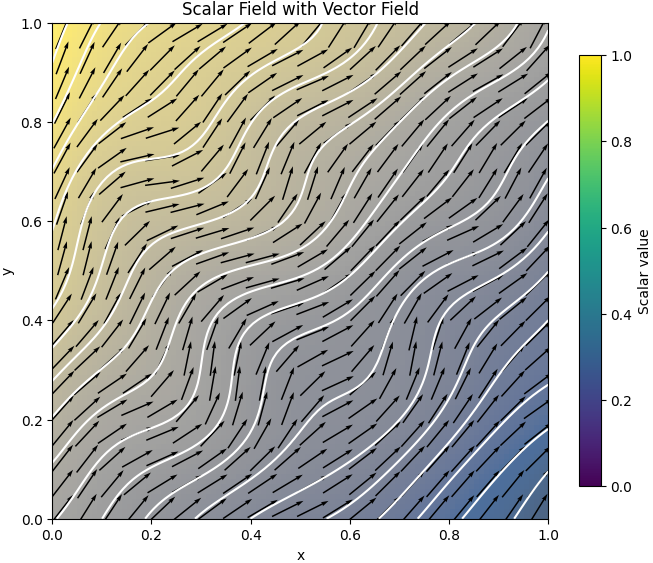
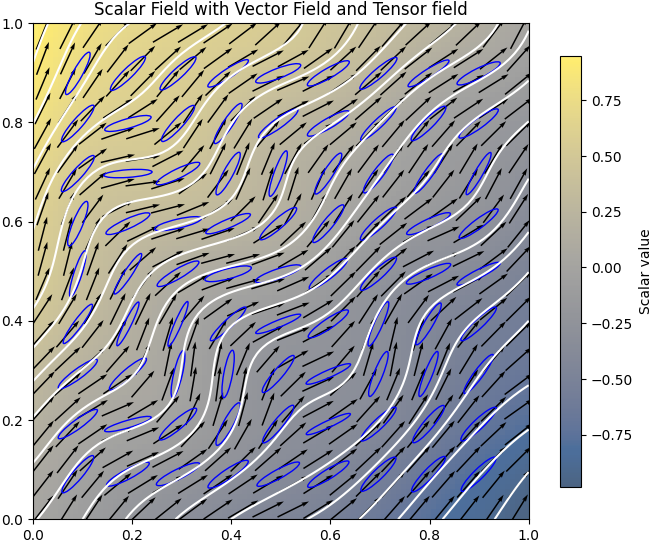
JMB: updated transformation of tensors

diff --git a/src/util_transformation.py b/src/util_transformation.py
@@ -92,16 +92,22 @@ def transform_vector_2d(u,v,transf_u,transf_v,grid_type='T'):
     # Compute v at U points
     v_u[1:,1:] = ( v[0:-1, 0:-1] + v[1:, 0:-1] + v[0:-1, 1:] + v[1:, 1:] ) / 4
     v_u[0,:] = v[0,:] ; v_u[:,0] = v[:,0]
+    # Apply transformation to input vector
+    ru = u   * transf_u[0,0,:,:] + v_u * transf_u[0,1,:,:]
+    rv = u_v * transf_v[1,0,:,:] + v   * transf_v[1,1,:,:]
+    # Renormalize vector if required by user
+    if method == 'renormalization' :
+      rv_u = u   * transf_v[1,0,:,:] + v_u * transf_v[1,1,:,:]
+      ru_v = u_v * transf_u[0,0,:,:] + v   * transf_u[0,1,:,:]
+      renormalize_vector(ru  ,rv_u,u  ,v_u)
+      renormalize_vector(ru_v,rv  ,u_v,v  )
   else:
-    u_v = u
-    v_u = v
-
-  # Apply transformation to input vector
-  ru = u   * transf_u[0,0,:,:] +  v_u * transf_u[0,1,:,:]
-  rv = u_v * transf_v[1,0,:,:] +  v   * transf_v[1,1,:,:]
-
-  # Renormalize vector if required by user
-  # if method == 'renormalization' :
+    # Apply transformation to input vector
+    ru = u * transf_u[0,0,:,:] + v * transf_u[0,1,:,:]
+    rv = u * transf_v[1,0,:,:] + v * transf_v[1,1,:,:]
+    # Renormalize vector if required by user
+    if method == 'renormalization' :
+      renormalize_vector(ru,rv,u,v)
 
   return ru, rv
 
@@ -127,7 +133,10 @@ def transform_tensor(txx,txy,tyy,dx,dy,grid_type='T'):
 
   # Transform tensor for every 2d slice
   if ndim == 2 :
-    rtxx, rtxy, rtyy = transform_tensor_2d(txx,txy,tyy,transf)
+    txx2d = txx[:,:]
+    txy2d = txy[:,:]
+    tyy2d = tyy[:,:]
+    rtxx2d, rtxy2d, rtyy2d = transform_tensor_2d(txx2d,txy2d,tyy2d,transf)
     txx[:,:] = rtxx2d
     txy[:,:] = rtxy2d
     tyy[:,:] = rtyy2d
@@ -167,16 +176,47 @@ def transform_tensor_2d(txx,txy,tyy,transf):
   rtxx,rtxy,rtyy : transformed components of the tensor
   """
 
-  # Apply transformation to input tensor
-  rtxx = txx * transf[0,0,:,:]**2 + 2 * txy * transf[0,0,:,:] * transf[0,1,:,:] \
-         + tyy * transf[0,1,:,:]**2
-  rtxy = txx * transf[1,0,:,:] * transf[0,0,:,:] + tyy * transf[0,1,:,:] * transf[1,1,:,:] \
-         + tyy * ( transf[0,1,:,:] * transf[1,0,:,:] + transf[0,0,:,:] * transf[1,1,:,:] )
-  rtyy = txx * transf[1,0,:,:]**2 + 2 * txy * transf[1,0,:,:] * transf[1,1,:,:] \
-         + tyy * transf[1,1,:,:]**2
+  if method == 'renormalization' :
+    # Initialize output tensors
+    rtxx = np.zeros_like(txx)
+    rtxy = np.zeros_like(txx)
+    rtyy = np.zeros_like(txx)
 
-  # Renormalize tensor if required by user
-  # if method == 'renormalization' :
+    # Loop on grid points (this loop is inefficient!)
+    for i in range(txx.shape[0]):
+      for j in range(txx.shape[1]):
+        # Extract 2D tensor
+        tensor = np.array([[txx[i,j], txy[i,j]],
+                          [txy[i,j], tyy[i,j]]])
+        # Compute eigenvalues and eigenvectors
+        eival, eivec = np.linalg.eigh(tensor)
+        # Transform and renormalize first eigenvector
+        ru = eivec[0,0] * transf[0,0,i,j] + eivec[1,0] * transf[0,1,i,j]
+        rv = eivec[0,0] * transf[1,0,i,j] + eivec[1,0] * transf[1,1,i,j]
+        norm = np.sqrt(ru**2+rv**2)
+        eivec[0,0] = ru/norm
+        eivec[1,0] = rv/norm
+        # Transform and renormalize second eigenvector
+        ru = eivec[0,1] * transf[0,0,i,j] + eivec[1,1] * transf[0,1,i,j]
+        rv = eivec[0,1] * transf[1,0,i,j] + eivec[1,1] * transf[1,1,i,j]
+        norm = np.sqrt(ru**2+rv**2)
+        eivec[0,1] = ru/norm
+        eivec[1,1] = rv/norm
+        # Construct the diagonal matrix of eigenvalues
+        Lambda = np.diag(eival)
+        # Reconstruct the tensor with transformed eigenvectors
+        tensor = eivec @ Lambda @ eivec.T
+        rtxx[i,j] = tensor[0,0]
+        rtxy[i,j] = tensor[0,1]
+        rtyy[i,j] = tensor[1,1]
+  else:
+    # Directly apply transformation to input tensor
+    rtxx = txx * transf[0,0,:,:]**2 + 2 * txy * transf[0,0,:,:] * transf[0,1,:,:] \
+           + tyy * transf[0,1,:,:]**2
+    rtxy = txx * transf[1,0,:,:] * transf[0,0,:,:] + tyy * transf[0,1,:,:] * transf[1,1,:,:] \
+           + txy * ( transf[0,1,:,:] * transf[1,0,:,:] + transf[0,0,:,:] * transf[1,1,:,:] )
+    rtyy = txx * transf[1,0,:,:]**2 + 2 * txy * transf[1,0,:,:] * transf[1,1,:,:] \
+           + tyy * transf[1,1,:,:]**2
 
   return rtxx, rtxy, rtyy
 
@@ -246,4 +286,24 @@ def compute_transformation(dx,dy,grid_type='T'):
       transf[i,j,:,-1]   = transf[i,j,:,-2]
 
   return transf
+
+def renormalize_vector(ru,rv,u,v):
+  """
+  Renormalize vectors to original norm
+
+  Args:
+  ru,rv : components of the transformed vector
+  u,v   : components of the original vector
+  dx : perturbation along x coordinate
+  dy : perturbation along y coordinate
+
+  Returns:
+  ru,rv are modified in place
+  """
+
+  factor = np.sqrt ( ( u**2 + v**2 ) / ( ru**2 + rv**2 ) )
+  ru[:,:] = ru[:,:] * factor
+  rv[:,:] = rv[:,:] * factor
+
+  return
 

diff --git a/examples/plot_test_case.py b/examples/plot_test_case.py
@@ -2,6 +2,8 @@ import numpy as np
 import argparse
 from netCDF4 import Dataset
 import matplotlib.pyplot as plt
+from matplotlib.patches import Ellipse
+
 
 # Parse command-line arguments
 parser = argparse.ArgumentParser(prog='plot_test_case',description='Plot output from test case')
@@ -16,6 +18,9 @@ nc_y = nc_file.variables['nav_lat']
 nc_f = nc_file.variables['f']
 nc_u = nc_file.variables['u']
 nc_v = nc_file.variables['v']
+nc_txx = nc_file.variables['txx']
+nc_txy = nc_file.variables['txy']
+nc_tyy = nc_file.variables['tyy']
 
 # Load variables from file
 x = nc_x[:]
@@ -23,28 +28,53 @@ y = nc_y[:]
 f = nc_f[:]
 u = nc_u[:]
 v = nc_v[:]
+txx = nc_txx[:]
+txy = nc_txy[:]
+tyy = nc_tyy[:]
 
 # Close NetCDF file
 nc_file.close()
 
-# Plotting
-plt.figure(figsize=(8, 8))
+# Get dimensions
+idim = x.shape[0]
+jdim = x.shape[1]
 
-# Display the scalar field with imshow
+# Plotting
+fig, ax = plt.subplots(figsize=(8, 8))
+
+# Display the scalar field with colors
 plt.imshow(f, extent=[0, 1, 0, 1], origin='lower', cmap='cividis', alpha=0.7)
-#plt.imshow(f, extent=[0, 1, 0, 1], origin='lower', alpha=0.7)
+plt.colorbar(label='Scalar value',cmap='cividis',shrink=0.7) # Add color bar to show scalar values
+
+# Display the scalar field with white contours
 plt.contour(x, y, f, colors='white', levels=20, linewidths=1.5, linestyles='solid')
 
-# Overlay the vector field with quiver
+# Display the vector field with black arrows
 plt.quiver(x[2::5,2::5], y[2::5,2::5], u[2::5,2::5], v[2::5,2::5], color='black',pivot='middle',scale=20)
 
+# Display each tensor as an ellipse
+for i in range(9,idim-1,10):
+  for j in range(9,jdim-1,10):
+    tensor = np.array([[txx[i,j], txy[i,j]],
+                       [txy[i,j], tyy[i,j]]])
+
+    # Compute eigenvalues and eigenvectors
+    eigenvalues, eigenvectors = np.linalg.eigh(tensor)
+
+    # The angle of the ellipse (orientation)
+    angle = np.degrees(np.arctan2(*eigenvectors[:, 0][::-1]))
+
+    # Width and height of the ellipse are proportional to the square root of the eigenvalues
+    plot_scale = 30
+    width, height = 2 * np.sqrt(eigenvalues) / plot_scale
+
+    # Position
+    ellipse = Ellipse(xy=(x[i, j], y[i, j]), width=width, height=height,
+                      angle=angle, edgecolor='blue', facecolor='none')
+    ax.add_patch(ellipse)
+
 # Add labels and title
-plt.xlabel('x')
-plt.ylabel('y')
-plt.title('Scalar Field with Vector Field')
+plt.title('Scalar Field with Vector Field and Tensor field')
 
-# Show the plot
-plt.colorbar(label='Scalar value',shrink=0.7) # Add color bar to show scalar values
-#plt.show()
-
+# Save figure in file
 plt.savefig(input_file+'.png', dpi=100, bbox_inches='tight',pad_inches=0.01)

diff --git a/examples/prepare_test_case.py b/examples/prepare_test_case.py
@@ -7,13 +7,20 @@ x = np.linspace(0, 1, grid_size)
 y = np.linspace(0, 1, grid_size)
 x_grid, y_grid = np.meshgrid(x, y)
 
-# Define the scalar function f(x, y) = y - x
+# Define a scalar function f(x, y) = y - x
 f = y_grid - x_grid
-#f = np.floor( 10 *  ( y_grid - x_grid ) ) / 10
-#f = y_grid
 
-# Define the constant vector field u = (1, 1)
+# Define a constant vector field u(x, y) = (1, 1)
 u = np.ones((grid_size, grid_size, 2))  # Last dimension is 2 for the vector components
+
+# Define a constant tensor field t(x, y) = ( [a, c] , [c, b] )
+# (symmetric, positive definite)
+a = 1.2 ; b = 1 ; c = 1
+t = np.zeros((grid_size, grid_size, 2, 2))
+for i in range(grid_size):
+    for j in range(grid_size):
+        t[i,j,:,:] = np.array([[a, c],
+                               [c, b]])
 
 # Create a new NetCDF file
 nc_filename = 'test.nc'
@@ -34,26 +41,34 @@ with Dataset(nc_filename, 'w', format='NETCDF4') as ncfile:
     u_var = ncfile.createVariable('u', 'f4', ('x', 'y'))
     v_var = ncfile.createVariable('v', 'f4', ('x', 'y'))
 
+    # Create the vector field variable u(x, y)
+    txx_var = ncfile.createVariable('txx', 'f4', ('x', 'y'))
+    txy_var = ncfile.createVariable('txy', 'f4', ('x', 'y'))
+    tyy_var = ncfile.createVariable('tyy', 'f4', ('x', 'y'))
+
     # Assign data to the coordinate variables
     x_var[:,:] = x_grid
     y_var[:,:] = y_grid
 
     # Assign data to the scalar function variable
-    f_var[:, :] = f
+    f_var[:,:] = f
 
     # Assign data to the vector field variable
-    u_var[:, :] = u[:, :, 0]
-    v_var[:, :] = u[:, :, 1]
+    u_var[:,:] = u[:, :, 0]
+    v_var[:,:] = u[:, :, 1]
 
-    # Optional: Add units or descriptions
-    x_var.units = 'nondimensional'
-    y_var.units = 'nondimensional'
-    f_var.units = 'nondimensional'
-    u_var.units = 'nondimensional'
-    v_var.units = 'nondimensional'
-    f_var.description = 'Scalar function f(x, y) = y - x'
-    u_var.description = 'Constant vector field u(x, y) = 1'
-    v_var.description = 'Constant vector field v(x, y) = 1'
+    # Assign data to the vector field variable
+    txx_var[:,:] = t[:, :, 0, 0]
+    txy_var[:,:] = t[:, :, 0, 1]
+    tyy_var[:,:] = t[:, :, 1, 1]
+
+    # Add  descriptions
+    f_var.description = 'Scalar function f(x, y)'
+    u_var.description = 'Constant vector field u(x, y)'
+    v_var.description = 'Constant vector field v(x, y)'
+    txx_var.description = 'Constant tensor field txx(x, y)'
+    txy_var.description = 'Constant tensor field txy(x, y)'
+    tyy_var.description = 'Constant tensor field txy(y, y)'
 
 print(f"NetCDF file '{nc_filename}' created successfully.")
 

diff --git a/examples/README.md b/examples/README.md
@@ -29,6 +29,9 @@ python plot_test_case.py -i input_file
 ```
 
 This should provide figures comparable to those provided here as an illustration.
+The scalar field is in color, with white isolines;
+the vector field is shown with black arrows;
+the tensor field is shown with blue ellipses.
 
 Reference field:
 
